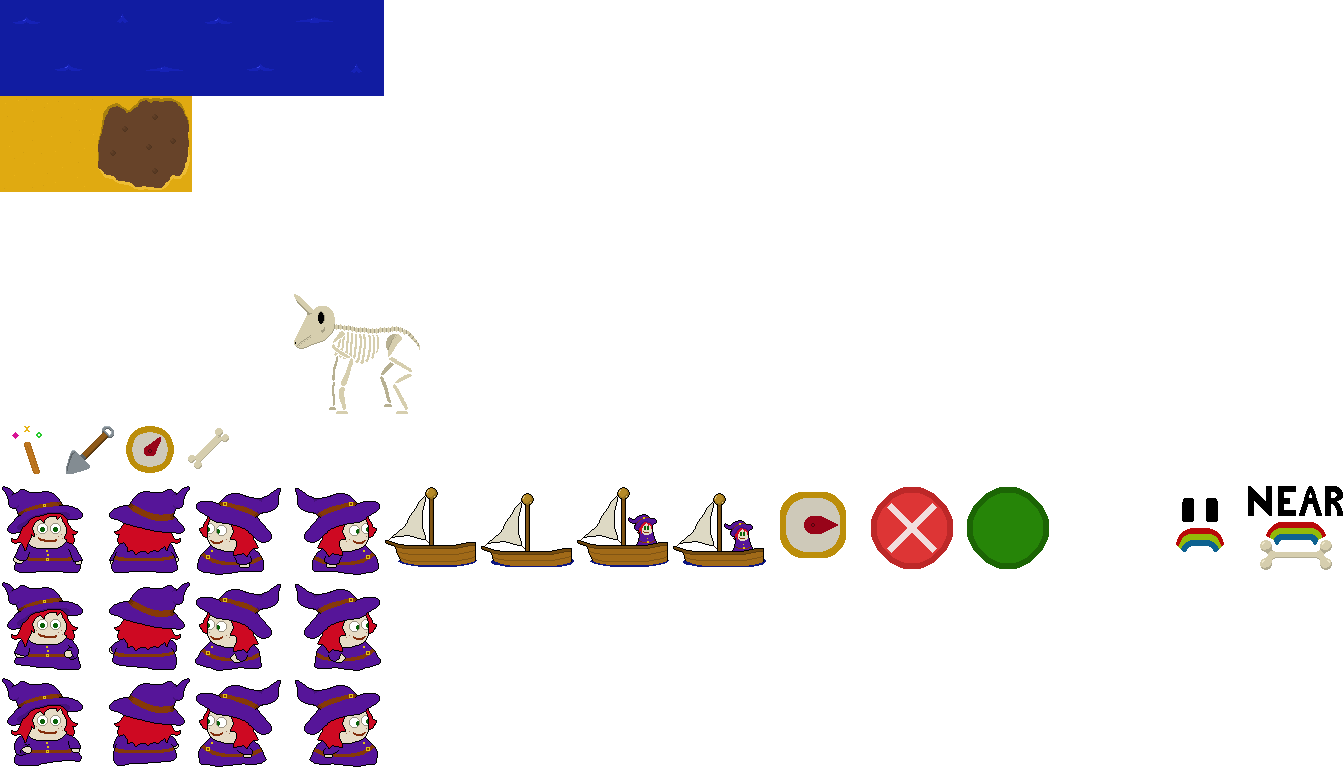
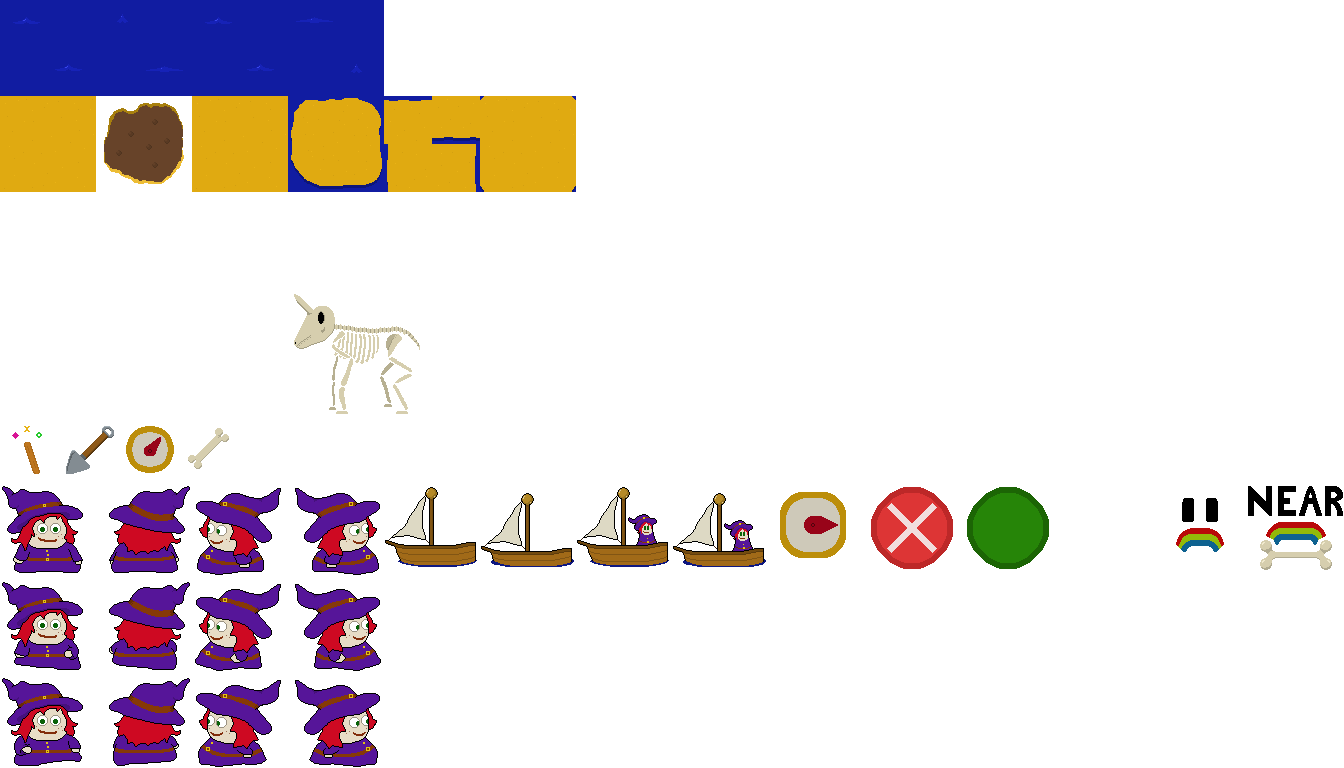
neighbor joining for sand tiles

Changed region(s): [[0.0625, 0.125, 0.4375, 0.25]]

diff --git a/src/cdrom/Render.js b/src/cdrom/Render.js
@@ -52,8 +52,11 @@ export class Render {
     if (rowz > this.app.map.h) rowz = this.app.map.h;
     for (let row=rowa, dsty=rowa*TS-cy; row<=rowz; row++, dsty+=TS) {
       for (let col=cola, dstx=cola*TS-cx, p=row*this.app.map.w+cola; col<=colz; col++, dstx+=TS, p++) {
-        //TODO quarter tiles ...out of scope for js13k
         let ti = this.app.map.v[p];
+        if (ti) { // 0x10=sand, 0x11=sand+hole. And that's actually everything, except water.
+          this.quarterTile(ctx, dstx, dsty, 192, 96, 48, 48, p);
+          if (ti === 0x10) continue;
+        }
         if (!ti) { // Water animates.
           ti += this.bgf;
         }
@@ -85,6 +88,47 @@ export class Render {
       ctx.fillStyle = "#000";
       ctx.fillRect(0, 0, this.cvs.width, this.cvs.height);
       ctx.globalAlpha = 1;
+    }
+  }
+  
+  quarterTile(ctx, dstx, dsty, srcx, srcy, colw, rowh, cellp) {
+    const v = this.app.map.v;
+    const w = this.app.map.w;
+    const neighbors = (dx, dy) => { // 1=horz, 2=vert, 3=diag. Diagonal is only reported if both horz and vert present. So there's 5 possible values.
+      let n = (v[cellp+dx]?1:0)|(v[cellp+dy*w]?2:0);
+      if (n === 3) n |= (v[cellp+dx+dy*w]?4:0);
+      return n;
+    };
+    const sub = (dc, dr, sc, sr) => {
+      ctx.drawImage(this.gfx, srcx + sc * colw, srcy + sr * rowh, colw, rowh, dstx + dc * colw, dsty + dr * rowh, colw, rowh);
+    };
+    switch (neighbors(-1,-1)) { // NW
+      case 0: sub(0, 0, 2, 0); break;
+      case 1: sub(0, 0, 4, 0); break;
+      case 2: sub(0, 0, 4, 1); break;
+      case 3: sub(0, 0, 6, 0); break;
+      case 7: sub(0, 0, 0, 0); break;
+    }
+    switch (neighbors(1,-1)) { // NE
+      case 0: sub(1, 0, 3, 0); break;
+      case 1: sub(1, 0, 4, 0); break;
+      case 2: sub(1, 0, 5, 1); break;
+      case 3: sub(1, 0, 7, 0); break;
+      case 7: sub(1, 0, 1, 0); break;
+    }
+    switch (neighbors(-1, 1)) { // SW
+      case 0: sub(0, 1, 2, 1); break;
+      case 1: sub(0, 1, 5, 0); break;
+      case 2: sub(0, 1, 4, 1); break;
+      case 3: sub(0, 1, 6, 1); break;
+      case 7: sub(0, 1, 0, 1); break;
+    }
+    switch (neighbors(1, 1)) { // SE
+      case 0: sub(1, 1, 3, 1); break;
+      case 1: sub(1, 1, 5, 0); break;
+      case 2: sub(1, 1, 5, 1); break;
+      case 3: sub(1, 1, 7, 1); break;
+      case 7: sub(1, 1, 1, 1); break;
     }
   }
   

diff --git a/README.md b/README.md
@@ -70,6 +70,7 @@ For js13k 2026, theme "UNICORNS AND RAINBOWS".
 - - So, will finish Phase Two before Phase One.
 - 2026-08-16: Finished Phase One, and Two was basically done already. Way ahead of schedule!
 - 2026-08-16+an hour or so: Phase Three was a breeze, just removing unused graphics got us under the line.
+- 2026-08-19: Existing js13k assets have all been upped for cdrom. 749115 bytes. We need to double that at a bare minimum.
 
 ## TODO
 
@@ -80,9 +81,9 @@ For js13k 2026, theme "UNICORNS AND RAINBOWS".
 - - - [x] Bump everything to 96px tiles instead of 16px, and a 1920x1080 framebuffer.
 - - - [x] Redraw existing tiles at the higher resolution.
 - - - [x] Text: Use CanvasRenderingContext2D's built-in text rendering, no need for our custom 3x5.
-- - [ ] Rich tiles. Neighbor joining etc.
+- - [x] Rich tiles. Neighbor joining etc.
 - - [x] mp3 music instead of synth.
-- - [ ] Recorded sound effects instead of synth.
+- - [x] Recorded sound effects instead of synth. ...decline. I like the synth sounds.
 - - [ ] Hello modal.
 - - [ ] Different kinds of treasure and different ways of detecting them.
 - [ ] Rich cover pic that promises way more than the game can deliver, in the fashion of 80s console games :)
